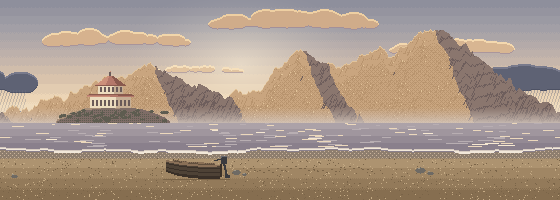
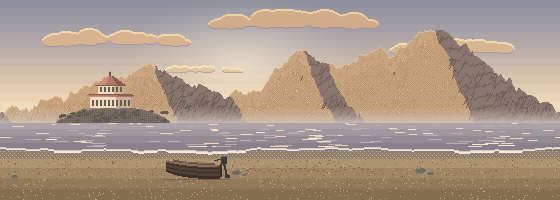
Remove the rain cloud from Misty cove and slow the rain down
- Misty cove: drop the dark rain squall (it wrapped into the top-left of
  the default view) from the light and dark art. Nothing else changed.
- Rain speed is its own constant, PIXEL_PALS_RAIN_FALL_SPEED (default 80
  to 110 px/s, was 190 to 260), with PIXEL_PALS_RAIN_SLANT keeping the
  angle when the speed changes.

Claude-Session: https://claude.ai/code/session_01RSXjZ6DpWkPZ5A9pGqJeqA

Changed region(s): [[0.8804, 0.3, 1.0, 0.54], [0.0, 0.36, 0.0911, 0.54]]

diff --git a/components/pixel-pals/constants/pixel-pals-behavior.constants.ts b/components/pixel-pals/constants/pixel-pals-behavior.constants.ts
@@ -261,6 +261,15 @@ export interface PixelPalsParticleTuning {
   thickness?: PixelPalsRange;
 }
 
+/**
+ * How fast rain falls on every theme with rain (Overgrown city, Karst peaks), in px per second. Each drop gets its own
+ * speed in this range. Higher = faster. At the default, a drop takes about 1.3 seconds to fall to the ground of the
+ * default 150 px tall Pixel Pals (it was 190 to 260, about 0.5 seconds, which looked too fast).
+ */
+export const PIXEL_PALS_RAIN_FALL_SPEED: PixelPalsRange = [80, 110];
+/** How much the rain slants: px to the left for every px it falls (0 = straight down). The angle stays the same when the speed changes. */
+export const PIXEL_PALS_RAIN_SLANT = 0.1;
+
 export const PIXEL_PALS_PARTICLE_TUNING = {
   // 1 px flakes, a few 2 px ones, drifting down slowly
   snow: { maxPer10kPx: 40, size: [1, 2], fallSpeed: [10, 24], drift: [-2, 4], sway: [1.5, 4], swaySeconds: [1.6, 3.2] },
@@ -268,8 +277,16 @@ export const PIXEL_PALS_PARTICLE_TUNING = {
   leaves: { maxPer10kPx: 9, size: [2, 2], fallSpeed: [12, 22], drift: [-4, 6], sway: [6, 12], swaySeconds: [1.8, 3.4] },
   // 1 px specks blowing away from the portal, to the left
   debris: { maxPer10kPx: 24, size: [1, 2], fallSpeed: [6, 16], drift: [-16, -6], sway: [1, 3], swaySeconds: [0.8, 1.8] },
-  // 1 px wide streaks, fast, slanting a little
-  rain: { maxPer10kPx: 30, size: [1, 1], fallSpeed: [190, 260], drift: [-28, -18], sway: [0, 0], swaySeconds: [1, 1], streakLength: [3, 5] },
+  // 1 px wide streaks, slanting a little; the speed is PIXEL_PALS_RAIN_FALL_SPEED above
+  rain: {
+    maxPer10kPx: 30,
+    size: [1, 1],
+    fallSpeed: PIXEL_PALS_RAIN_FALL_SPEED,
+    drift: [-PIXEL_PALS_RAIN_FALL_SPEED[1] * PIXEL_PALS_RAIN_SLANT, -PIXEL_PALS_RAIN_FALL_SPEED[0] * PIXEL_PALS_RAIN_SLANT],
+    sway: [0, 0],
+    swaySeconds: [1, 1],
+    streakLength: [3, 5],
+  },
   // thin wisps drifting slowly sideways, mostly in the lower half
   fog: { maxPer10kPx: 6, size: [22, 44], fallSpeed: [0, 0], drift: [3, 8], sway: [0.5, 1.5], swaySeconds: [5, 9], thickness: [3, 6] },
 } as const satisfies Record<string, PixelPalsParticleTuning>;

diff --git a/components/pixel-pals/README.md b/components/pixel-pals/README.md
@@ -88,6 +88,7 @@ food are all numbers in `constants/pixel-pals-behavior.constants.ts`. The file i
 | how long each timed activity lasts (idle, walk, run, lie, fly, eat...); chasing, climbing and walking to a friend end on their own | `PIXEL_PALS_BEHAVIOR_DURATION` |
 | calmer or livelier pets           | `PIXEL_PALS_NEXT_BEHAVIOR_WEIGHTS`                                        |
 | weather: how many at 100%, size, speed, drift | `PIXEL_PALS_PARTICLE_TUNING` (section 12); colors and opacity in `PIXEL_PALS_PARTICLE_EFFECTS` |
+| how fast the rain falls (px per second) and its angle | `PIXEL_PALS_RAIN_FALL_SPEED`, `PIXEL_PALS_RAIN_SLANT` (section 12) |
 
 One kind's own speed and size are `speed` and `sizeScale` on its entry in `PIXEL_PALS_PETS`. What pets say is in
 `constants/pixel-pals-messages.constants.ts` and each pet's `voice`.
